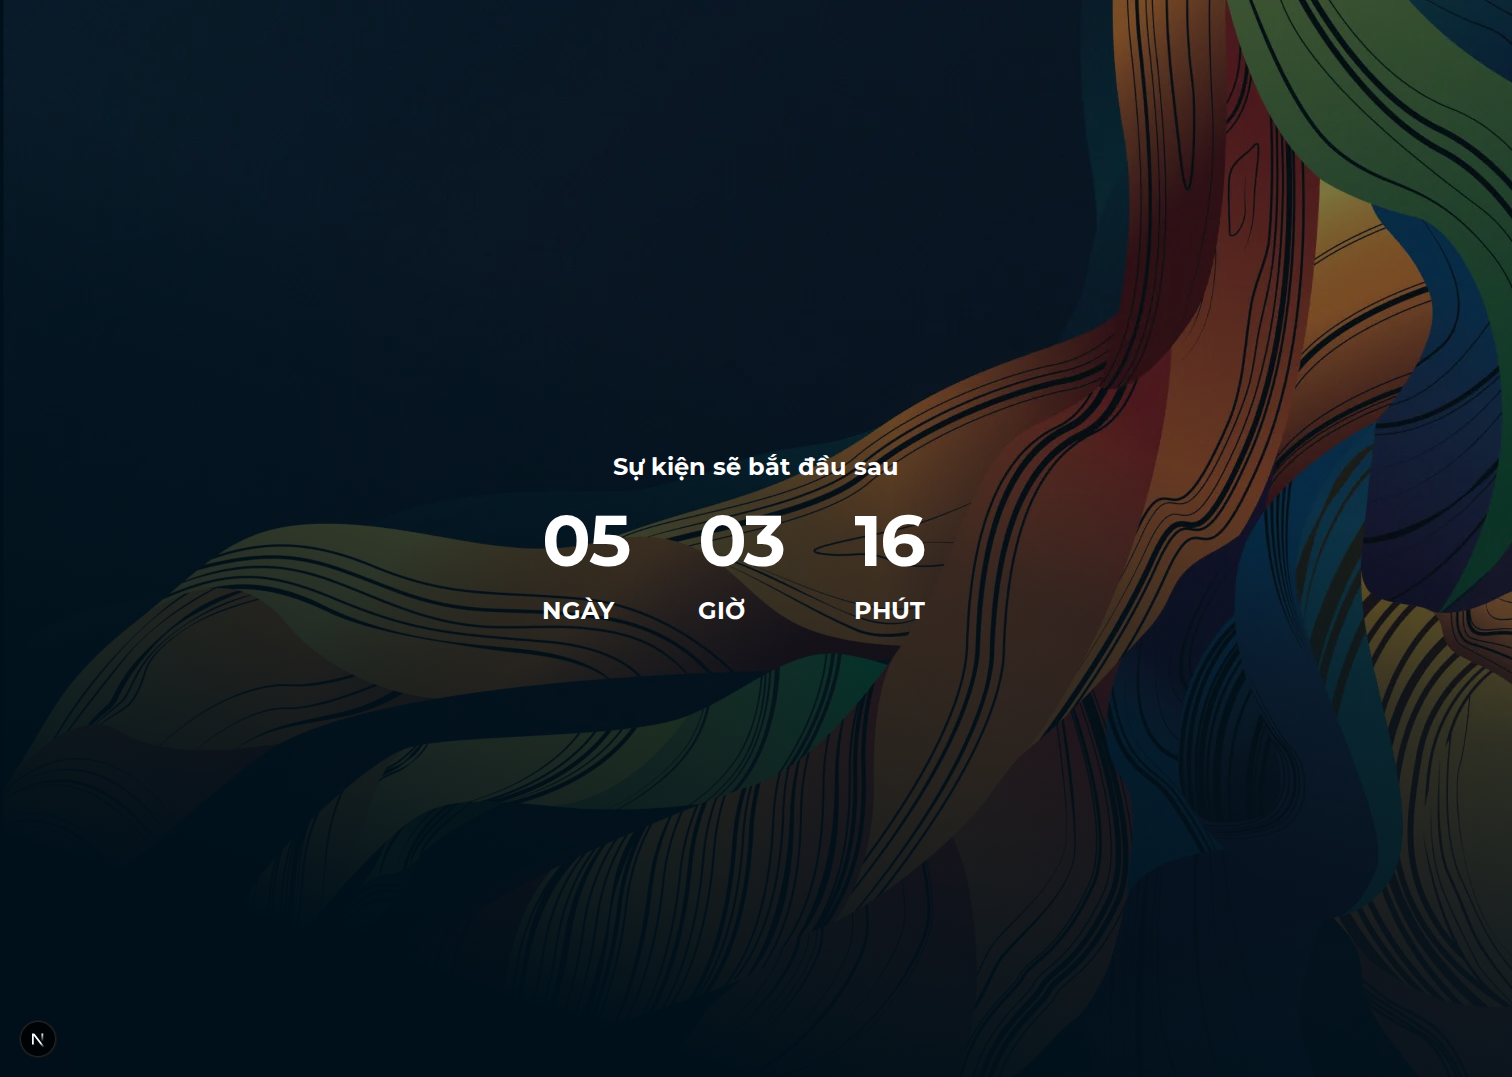
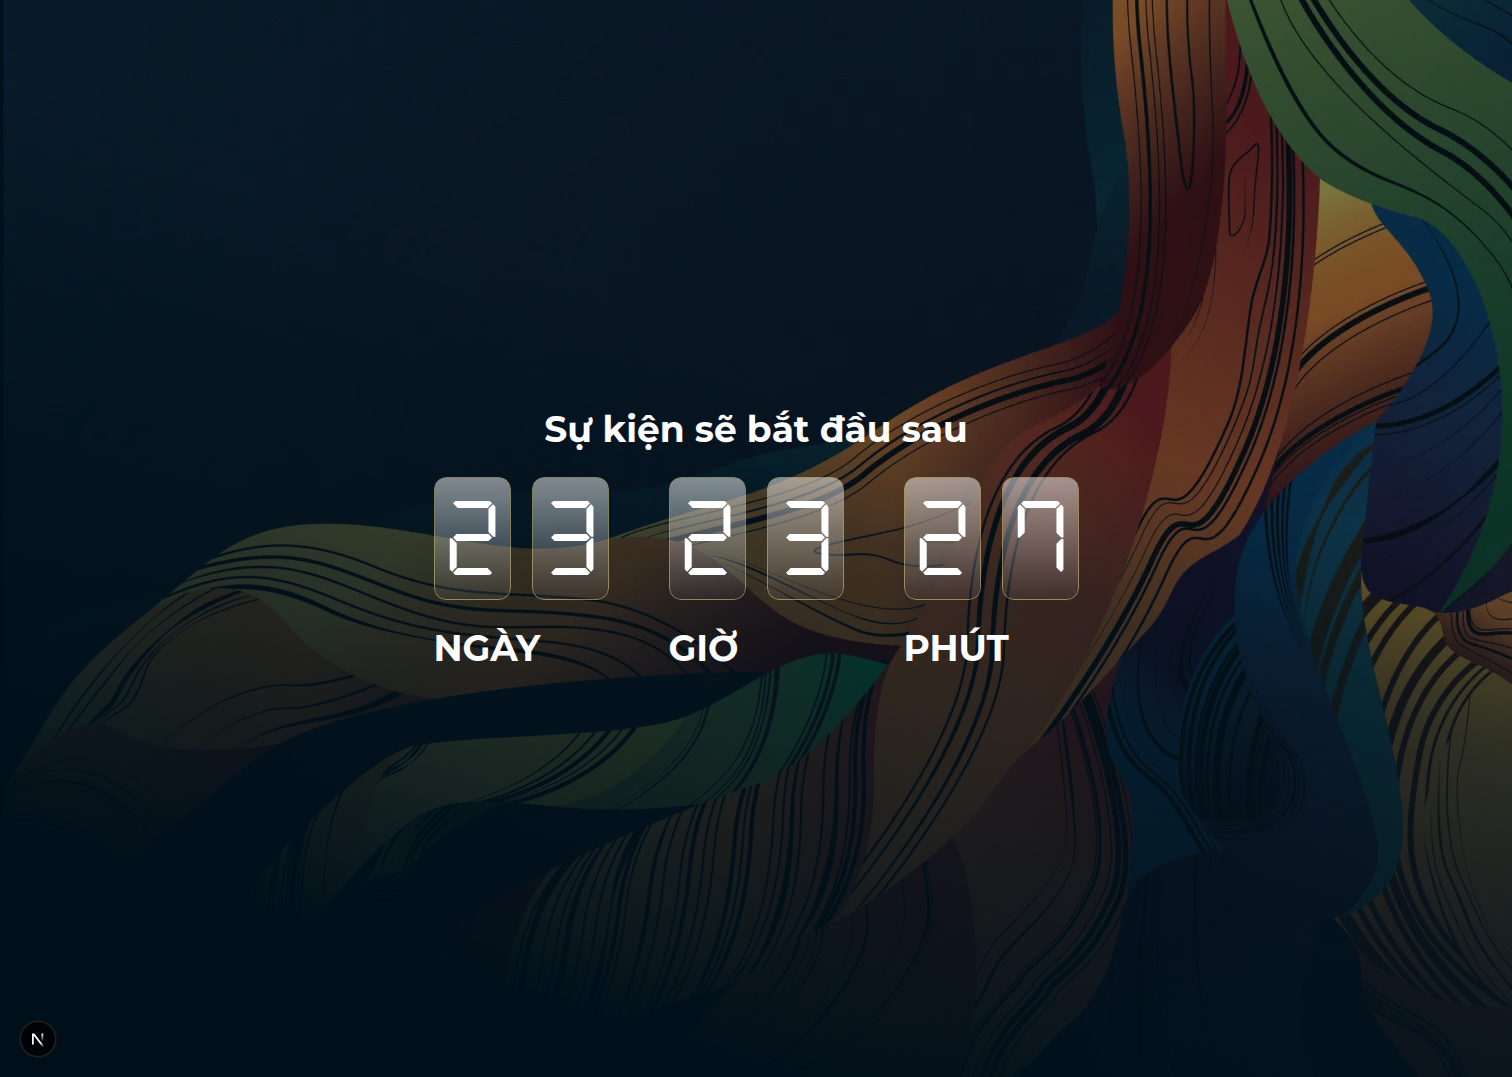
Fix countdown visual and update spec, plan, task

Changed region(s): [[0.2798, 0.3677, 0.7149, 0.6128]]

diff --git a/src/components/home/Countdown.tsx b/src/components/home/Countdown.tsx
@@ -35,16 +35,76 @@ function pad2(value: number): string {
   return value.toString().padStart(2, "0");
 }
 
+type Size = "md" | "lg";
+
+// LED tile + label sizing tokens. Mirrors `.saa-countdown-tile-{md,lg}` in
+// app/globals.css (Figma 8PJQswPZmU + i87tDx10uM B1.3); kept here only to
+// drive layout/typography pieces Tailwind needs as inline arbitrary values.
+const SIZE_TOKENS: Record<
+  Size,
+  {
+    tile: string; // class for digit tile
+    digitFontSize: string; // DSEG7 font-size (px) — matches Figma exactly
+    digitGap: string; // gap between the two digit tiles (px)
+    label: string; // label typography (Montserrat)
+    columnGap: string; // vertical gap between digit row and label
+    groupGap: string; // horizontal gap between Days/Hours/Minutes groups
+    digitWidthPx: number; // digit text box width (Figma)
+  }
+> = {
+  lg: {
+    tile: "saa-countdown-tile saa-countdown-tile-lg",
+    digitFontSize: "text-[73.728px] leading-[95px]",
+    digitGap: "gap-[21px]",
+    label: "font-display text-4xl font-bold leading-[48px]",
+    columnGap: "gap-6",
+    groupGap: "gap-[60px]",
+    digitWidthPx: 59,
+  },
+  md: {
+    tile: "saa-countdown-tile saa-countdown-tile-md",
+    digitFontSize: "text-[49.152px] leading-[63px]",
+    digitGap: "gap-[14px]",
+    label: "font-display text-2xl font-bold leading-8",
+    columnGap: "gap-[14px]",
+    groupGap: "gap-10",
+    digitWidthPx: 40,
+  },
+};
+
+function DigitTile({ char, size }: { char: string; size: Size }) {
+  const tokens = SIZE_TOKENS[size];
+  return (
+    <div className={tokens.tile}>
+      <span
+        aria-hidden="true"
+        style={{
+          fontFamily: "var(--font-led), monospace",
+          width: tokens.digitWidthPx,
+          textAlign: "center",
+        }}
+        className={`${tokens.digitFontSize} font-normal text-saa-countdown-digit-fg`}
+      >
+        {char}
+      </span>
+    </div>
+  );
+}
+
 export default function Countdown({
   eventStart,
   locale,
   subtitleAs = "p",
   subtitleKey = "home.hero.subtitle",
+  size = "md",
+  align = "start",
 }: {
   eventStart: Date | null;
   locale: SupportedLocale;
   subtitleAs?: "p" | "h1";
   subtitleKey?: string;
+  size?: Size;
+  align?: "start" | "center";
 }) {
   const [now, setNow] = useState<Date>(() => new Date());
 
@@ -66,6 +126,7 @@ export default function Countdown({
   const parts = computeParts(eventStart, now);
   const showSubtitle = !parts || !parts.isInPast;
 
+  const tokens = SIZE_TOKENS[size];
   const tiles: ReadonlyArray<{ label: string; value: string }> = [
     {
       label: t("home.hero.countdown.days", locale),
@@ -81,32 +142,41 @@ export default function Countdown({
     },
   ];
 
+  const alignmentClass = align === "center" ? "items-center" : "items-start";
+  const subtitleAlignClass = align === "center" ? "text-center" : "text-left";
+
   return (
-    <div className="flex flex-col gap-4">
+    <div className={`flex flex-col ${alignmentClass} ${tokens.columnGap}`}>
       {showSubtitle
         ? createElement(
             subtitleAs,
             {
-              className: "font-display text-2xl font-bold leading-8 text-saa-page-fg",
+              className: `${tokens.label} ${subtitleAlignClass} text-saa-page-fg`,
             },
             t(subtitleKey, locale),
           )
         : null}
-      <div className="flex flex-row items-center gap-10">
-        {tiles.map((tile) => (
-          <div
-            key={tile.label}
-            className="flex flex-col items-start justify-center gap-3.5"
-            style={{ width: 116, height: 128 }}
-          >
-            <div className="flex h-[82px] w-full items-center font-display text-[72px] font-bold leading-[82px] tracking-tight text-saa-page-fg">
-              {tile.value}
+      <div className={`flex flex-row items-center ${tokens.groupGap}`}>
+        {tiles.map((tile) => {
+          const [d1, d2] = [tile.value.charAt(0), tile.value.charAt(1)];
+          return (
+            <div
+              key={tile.label}
+              className={`flex flex-col items-start justify-center ${tokens.columnGap}`}
+            >
+              <div
+                className={`flex flex-row items-center ${tokens.digitGap}`}
+                aria-label={`${tile.value} ${tile.label}`}
+              >
+                <DigitTile char={d1} size={size} />
+                <DigitTile char={d2} size={size} />
+              </div>
+              <span className={`${tokens.label} text-saa-page-fg`}>
+                {tile.label}
+              </span>
             </div>
-            <span className="font-display text-2xl font-bold leading-8 text-saa-page-fg">
-              {tile.label}
-            </span>
-          </div>
-        ))}
+          );
+        })}
       </div>
     </div>
   );

diff --git a/app/globals.css b/app/globals.css
@@ -33,6 +33,13 @@
   --color-saa-footer-bg: #00070c;
   --color-saa-footer-fg: #ffffff;
   --color-saa-notification-dot: #d4271d;
+
+  /* SAA 2025 — Countdown LED tile tokens (sourced from Figma frames
+     8PJQswPZmU "Countdown - Prelaunch page" and i87tDx10uM "Homepage SAA"
+     B1.3). Each digit renders inside a glassmorphic tile with a thin golden
+     border; the digit itself is set in the DSEG7-Classic 7-segment font. */
+  --color-saa-countdown-tile-border: #ffea9e;
+  --color-saa-countdown-digit-fg: #ffffff;
 }
 
 @theme inline {
@@ -42,6 +49,7 @@
   --font-mono: var(--font-geist-mono);
   --font-display: var(--font-montserrat);
   --font-display-alt: var(--font-montserrat-alt);
+  --font-led: var(--font-dseg7);
 
   /* Tailwind v4 token registration: makes `bg-saa-page`, `text-saa-page-fg`,
      `bg-saa-header`, `bg-saa-button-primary`, `text-saa-button-primary-fg`
@@ -62,6 +70,58 @@
   --color-saa-footer-bg: var(--color-saa-footer-bg);
   --color-saa-footer-fg: var(--color-saa-footer-fg);
   --color-saa-notification-dot: var(--color-saa-notification-dot);
+  --color-saa-countdown-tile-border: var(--color-saa-countdown-tile-border);
+  --color-saa-countdown-digit-fg: var(--color-saa-countdown-digit-fg);
+}
+
+/* SAA 2025 — Countdown LED digit tile (Figma frames 8PJQswPZmU prelaunch +
+   i87tDx10uM homepage B1.3). Glassmorphic surface: white→white-10% gradient
+   at 0.5 opacity behind the digit, golden border, backdrop blur. Two size
+   variants — `lg` (prelaunch hero) and `md` (homepage) — set their own
+   border-width / radius / blur via CSS variables. */
+.saa-countdown-tile {
+  position: relative;
+  isolation: isolate;
+  display: flex;
+  align-items: center;
+  justify-content: center;
+  width: var(--saa-tile-w);
+  height: var(--saa-tile-h);
+  border-radius: var(--saa-tile-radius);
+  overflow: hidden;
+}
+
+.saa-countdown-tile::before {
+  content: "";
+  position: absolute;
+  inset: 0;
+  border-radius: inherit;
+  border: var(--saa-tile-border-w) solid var(--color-saa-countdown-tile-border);
+  background: linear-gradient(
+    180deg,
+    rgba(255, 255, 255, 1) 0%,
+    rgba(255, 255, 255, 0.1) 100%
+  );
+  opacity: 0.5;
+  backdrop-filter: blur(var(--saa-tile-blur));
+  -webkit-backdrop-filter: blur(var(--saa-tile-blur));
+  z-index: -1;
+}
+
+.saa-countdown-tile-lg {
+  --saa-tile-w: 77px;
+  --saa-tile-h: 123px;
+  --saa-tile-radius: 12px;
+  --saa-tile-border-w: 0.75px;
+  --saa-tile-blur: 24.96px;
+}
+
+.saa-countdown-tile-md {
+  --saa-tile-w: 51px;
+  --saa-tile-h: 82px;
+  --saa-tile-radius: 8px;
+  --saa-tile-border-w: 0.5px;
+  --saa-tile-blur: 16.64px;
 }
 
 body {

diff --git a/app/layout.tsx b/app/layout.tsx
@@ -1,5 +1,6 @@
 import type { Metadata } from "next";
 import { Geist, Geist_Mono, Montserrat, Montserrat_Alternates } from "next/font/google";
+import localFont from "next/font/local";
 
 import Toaster from "@/src/components/ui/Toaster";
 
@@ -27,6 +28,16 @@ const montserratAlternates = Montserrat_Alternates({
   weight: ["700"],
 });
 
+// DSEG7-Classic (OFL) — open-source 7-segment LED font used by the countdown
+// digit tiles (Figma "Digital Numbers" stand-in). Self-hosted under
+// `public/fonts/dseg7/` so we never depend on a CDN at request time.
+const dseg7 = localFont({
+  variable: "--font-dseg7",
+  src: "../public/fonts/dseg7/DSEG7Classic-Regular.woff2",
+  weight: "400",
+  display: "swap",
+});
+
 export const metadata: Metadata = {
   title: "Sun Annual Awards 2025",
   description: "Bắt đầu hành trình của bạn cùng SAA 2025.",
@@ -40,7 +51,7 @@ export default function RootLayout({
   return (
     <html
       lang="vi"
-      className={`${geistSans.variable} ${geistMono.variable} ${montserrat.variable} ${montserratAlternates.variable} h-full antialiased`}
+      className={`${geistSans.variable} ${geistMono.variable} ${montserrat.variable} ${montserratAlternates.variable} ${dseg7.variable} h-full antialiased`}
     >
       <body className="min-h-full flex flex-col">
         {children}

diff --git a/src/components/prelaunch/PrelaunchScreen.tsx b/src/components/prelaunch/PrelaunchScreen.tsx
@@ -31,6 +31,8 @@ export default function PrelaunchScreen({
           locale={locale}
           subtitleAs="h1"
           subtitleKey="prelaunch.heading"
+          size="lg"
+          align="center"
         />
         <PrelaunchAutoExit launchAt={launchAt} />
       </div>

diff --git a/.momorph/specs/8PJQswPZmU-countdown-prelaunch-page/tasks.md b/.momorph/specs/8PJQswPZmU-countdown-prelaunch-page/tasks.md
@@ -234,6 +234,23 @@ PR 4 — Phase 7 final (perf check, viewport smoke, full verification).
 
 ---
 
+## Phase 8 — Countdown LED redesign (post-launch visual update, 2026-05-09)
+
+**Goal**: Replace the original Montserrat-72px digit pair with the Figma "Digital Numbers" / 7-segment LED treatment. The same redesign also lands on Homepage SAA — the work is a single change to the shared `<Countdown>` component plus a `size`/`align` prop wiring.
+
+Functional contract (FR-001…FR-013, US1…US4) is **unchanged** — this phase is visual-only and inherits the Phase 14 work tracked in [.momorph/specs/i87tDx10uM-homepage-saa/tasks.md](../i87tDx10uM-homepage-saa/tasks.md). The two relevant prelaunch-side acceptance points:
+
+- The `<Countdown>` invocation in [src/components/prelaunch/PrelaunchScreen.tsx](../../../src/components/prelaunch/PrelaunchScreen.tsx) MUST pass `size="lg" align="center"` so the prelaunch tiles render at 77×123 (radius 12, border 0.75px, blur 24.96px) rather than the homepage default `size="md"` (51×82).
+- The `prelaunch.heading` i18n key continues to render as `<h1>` via `subtitleAs="h1"` (Q-CP5) — the redesign does NOT alter the heading element, only the digit row beneath it.
+
+- [x] T041 [P8] Wire `size="lg" align="center"` in PrelaunchScreen at the `<Countdown>` call site | src/components/prelaunch/PrelaunchScreen.tsx
+- [x] T042 [P8] Refresh `assets/frame.png` (latest Figma export from screenId `8PJQswPZmU`) and `assets/implementation.png` (Playwright capture via `channel: "chrome"`, `document.fonts.ready` gate) | .momorph/specs/8PJQswPZmU-countdown-prelaunch-page/assets/
+- [x] T043 [P8] Cross-reference Phase 14 in the Homepage SAA tasks file for the shared component / font / token work; no further changes scoped to this spec | (cross-link only)
+
+**Out of scope for Phase 8**: `LAUNCH_AT` parsing, redirect / gate behavior, the auto-exit client refresh, the PrelaunchAutoExit minute-tick mechanism, the `prelaunch.heading` copy, and any change to the Login regression suite.
+
+---
+
 ## Notes
 
 - Commit after each task or logical group; keep PRs scoped per the Incremental Delivery split.

diff --git a/.momorph/specs/i87tDx10uM-homepage-saa/tasks.md b/.momorph/specs/i87tDx10uM-homepage-saa/tasks.md
@@ -309,6 +309,22 @@
 
 ---
 
+## Phase 14 — Countdown LED redesign (post-launch visual update, 2026-05-09)
+
+**Goal**: Bring the `B1.3` countdown tiles in line with the Figma "Digital Numbers" / LED design that appears on both Homepage SAA (`i87tDx10uM`) and the Prelaunch page (`8PJQswPZmU`). Functional contract (per-minute tick, zero-padding, zero-state hiding the subtitle, visibilitychange recovery) is **unchanged** — this phase is visual only.
+
+**Scope**: each two-digit unit (`Days`/`Hours`/`Minutes`) renders as **two independent glassmorphic tiles**, one per digit, with the digit rendered in a 7-segment LED font. The same component services both screens via a `size` prop (`"md"` for homepage, `"lg"` for prelaunch).
+
+- [x] T074 [P14] Self-host **DSEG7-Classic** (OFL) under [public/fonts/dseg7/](../../../public/fonts/dseg7/) (`DSEG7Classic-Regular.woff2` + `LICENSE.txt`); register it via `next/font/local` in [app/layout.tsx](../../../app/layout.tsx) as the `--font-dseg7` CSS variable. Why DSEG7: Figma's "Digital Numbers" font is non-Google-hosted and not OFL; DSEG7-Classic is the closest open-source 7-segment family.
+- [x] T075 [P14] Add LED tile design tokens to [app/globals.css](../../../app/globals.css): `--color-saa-countdown-tile-border` (`#FFEA9E`), `--color-saa-countdown-digit-fg` (`#FFFFFF`), `--font-led` (mapped to `--font-dseg7`), plus the `.saa-countdown-tile`, `.saa-countdown-tile-md` (51×82, radius 8, border 0.5px, blur 16.64px), and `.saa-countdown-tile-lg` (77×123, radius 12, border 0.75px, blur 24.96px) classes. Each tile uses a `::before` pseudo-element so the white→white-10% gradient + golden border + backdrop-filter render at `opacity: 0.5` without dimming the digit on top.
+- [x] T076 [P14] Refactor [src/components/home/Countdown.tsx](../../../src/components/home/Countdown.tsx): split each two-digit value into a row of two `DigitTile` instances; add `size?: "md" | "lg"` (default `"md"`) and `align?: "start" | "center"` (default `"start"`) props. Default rendering for Homepage SAA (`<Hero />`) is unchanged. Existing unit tests in [tests/unit/components/home/Countdown.test.tsx](../../../tests/unit/components/home/Countdown.test.tsx) keep passing because `tilesFromDom()` reads `previousElementSibling.textContent`, which still concatenates the two digits to the original two-character string.
+- [x] T077 [P14] Wire `size="lg" align="center"` at the prelaunch call site in [src/components/prelaunch/PrelaunchScreen.tsx](../../../src/components/prelaunch/PrelaunchScreen.tsx). Homepage `<Hero />` keeps the default `size="md"` — no edit there.
+- [x] T078 [P14] Refresh design + implementation reference images: [.momorph/specs/i87tDx10uM-homepage-saa/assets/frame.png](assets/frame.png) + `assets/implementation-viewport.png`, and [.momorph/specs/8PJQswPZmU-countdown-prelaunch-page/assets/frame.png](../8PJQswPZmU-countdown-prelaunch-page/assets/frame.png) + `assets/implementation.png`. Visual verification via Playwright `channel: "chrome"` on real Google Chrome (DSEG7 font load gated on `document.fonts.ready`).
+
+**Out of scope for Phase 14**: any change to the per-minute tick, FR-007/FR-008 contracts, the `eventStart` prop signature, the `subtitleAs`/`subtitleKey` props, the `home.hero.countdown.{days,hours,minutes}` i18n keys, or the existing aria-decorative behavior (Q7).
+
+---
+
 ## Notes
 
 - Commit after each logical group: e.g. one commit for Phase 1 (asset prep), one for Phase 2 (foundation), one per user story phase.

diff --git a/.momorph/specs/8PJQswPZmU-countdown-prelaunch-page/spec.md b/.momorph/specs/8PJQswPZmU-countdown-prelaunch-page/spec.md
@@ -158,9 +158,9 @@ The prelaunch page is **deliberately inert**: no header, no footer, no nav, no l
 | Dark cover overlay | `2268:35130` | Dark overlay on top of the BG image to keep the countdown legible. | None. |
 | Centered content container | `2268:35131` (`Bìa`) | Centered flex column wrapping heading + countdown row. | None. |
 | Heading text | `2268:35137` | Localized text from i18n key `prelaunch.heading` (e.g. vi-VN: "Sự kiện sẽ bắt đầu sau" / en-US: "Coming soon"). Renders as `<h1>` via `Countdown`'s new `subtitleAs="h1"` prop (Q-CP5 resolved). | None — non-interactive. |
-| Days unit | `2268:35139` (`1_Days`) | Two-digit zero-padded display + `DAYS` label. Range `00`+. Shows `00` if `< 1` day remains. | None — display only. Auto-updates per the `Countdown` minute tick. |
-| Hours unit | `2268:35144` (`2_Hours`) | Two-digit zero-padded display + `HOURS` label. Range `00`–`23`. Out-of-range upstream values normalize to `00` (existing `Countdown` arithmetic guarantees this by construction). | None — display only. |
-| Minutes unit | `2268:35149` (`3_Minutes`) | Two-digit zero-padded display + `MINUTES` label. Range `00`–`59`. Out-of-range upstream values normalize to `00` (same guarantee). | None — display only. |
+| Days unit | `2268:35139` (`1_Days`) | Two-digit zero-padded display + `DAYS` label. **Each digit renders inside its own glassmorphic LED tile** (Figma "Digital Numbers" / 7-segment display, `lg` size: 77×123 per tile, golden border `#FFEA9E`, white→white-10% gradient under `backdrop-filter: blur(24.96px)`) — see Phase 8 visual redesign in `tasks.md`. Range `00`+. Shows `00 00` if `< 1` day remains. | None — display only. Auto-updates per the `Countdown` minute tick. |
+| Hours unit | `2268:35144` (`2_Hours`) | Two-digit zero-padded display + `HOURS` label. Same two-LED-tile structure as `1_Days`. Range `00`–`23`. Out-of-range upstream values normalize to `00` (existing `Countdown` arithmetic guarantees this by construction). | None — display only. |
+| Minutes unit | `2268:35149` (`3_Minutes`) | Two-digit zero-padded display + `MINUTES` label. Same two-LED-tile structure as `1_Days`. Range `00`–`59`. Out-of-range upstream values normalize to `00` (same guarantee). | None — display only. |
 
 > Visual / pixel / color / font / spacing / asset-filename details are deliberately out of scope here. They live in Figma (fetched by the implementer via `query_section`, `get_node`, `list_media_nodes`) and inherit the existing `Countdown` component's already-shipped styling. See [.momorph/SCREENFLOW.md](../../SCREENFLOW.md) "Screen Details — Countdown - Prelaunch page" for the structural map.
 

diff --git a/.momorph/specs/i87tDx10uM-homepage-saa/spec.md b/.momorph/specs/i87tDx10uM-homepage-saa/spec.md
@@ -251,9 +251,9 @@ The user scrolls past the hero and reads the three-paragraph theme essay (`B4`) 
 | `B1` Countdown section          | `2167:9035`                            | Wraps `B1.2` subtitle and `B1.3` tile group.                                                                      | Auto-updates per minute against `SAA_EVENT_START_AT`. Hides "Coming soon" once the target is reached.                     |
 | `B1.2` "Coming soon" subtitle   | `2167:9036`                            | Label only.                                                                                                       | Hidden when `now >= eventStart`.                                                                                          |
 | `B1.3` Countdown tile group     | `2167:9037`                            | Wraps the three tiles below.                                                                                      | Container; per-tile behavior delegated.                                                                                   |
-| `B1.3.1` Days tile              | `2167:9038`                            | 2-digit zero-padded numeric tile + `DAYS` label.                                                                  | Auto-updates per minute. Renders `00` once event start is in the past.                                                    |
-| `B1.3.2` Hours tile             | `2167:9043`                            | 2-digit zero-padded + `HOURS` label.                                                                              | Same behavior as `B1.3.1`.                                                                                                |
-| `B1.3.3` Minutes tile           | `2167:9048`                            | 2-digit zero-padded + `MINUTES` label.                                                                            | Same behavior as `B1.3.1`.                                                                                                |
+| `B1.3.1` Days tile              | `2167:9038`                            | 2-digit zero-padded numeric tile + `DAYS` label. **Each digit renders inside its own glassmorphic LED tile** (Figma "Digital Numbers" / 7-segment display, two tiles per unit) — see Phase 14 visual redesign in `tasks.md`. | Auto-updates per minute. Renders `00 00` once event start is in the past.                                                |
+| `B1.3.2` Hours tile             | `2167:9043`                            | 2-digit zero-padded + `HOURS` label. Same two-LED-tile structure as `B1.3.1`.                                     | Same behavior as `B1.3.1`.                                                                                                |
+| `B1.3.3` Minutes tile           | `2167:9048`                            | 2-digit zero-padded + `MINUTES` label. Same two-LED-tile structure as `B1.3.1`.                                   | Same behavior as `B1.3.1`.                                                                                                |
 | `B2` Event info block           | `2167:9053`                            | Static `Thời gian` / `Địa điểm` / Facebook live note.                                                             | Static. Copy comes from i18n catalog.                                                                                     |
 | `B3.1` "ABOUT AWARDS" CTA       | `2167:9063`                            | Primary CTA button.                                                                                               | Click → navigate to `/awards`. Hover → state change per Figma.                                                            |
 | `B3.2` "ABOUT KUDOS" CTA        | `2167:9064`                            | Secondary CTA button.                                                                                             | Click → navigate to `/sun-kudos`. Hover → state change per Figma.                                                         |

diff --git a/.momorph/specs/8PJQswPZmU-countdown-prelaunch-page/plan.md b/.momorph/specs/8PJQswPZmU-countdown-prelaunch-page/plan.md
@@ -108,7 +108,7 @@ Every FR / TR / US in spec.md is mapped below. A developer reading only this pla
 ### Integration Points
 
 - **Existing Services**:
-  - [`Countdown`](../../../src/components/home/Countdown.tsx) — **EXTENDED** with optional `subtitleAs?: "p" | "h1"` (default `"p"`) and optional `subtitleKey?: string` (default `"home.hero.subtitle"`) so the prelaunch route can opt into `<h1>` + `prelaunch.heading` without touching Homepage's render tree. Surgical change; one new Vitest case covers each branch.
+  - [`Countdown`](../../../src/components/home/Countdown.tsx) — **EXTENDED** with optional `subtitleAs?: "p" | "h1"` (default `"p"`) and optional `subtitleKey?: string` (default `"home.hero.subtitle"`) so the prelaunch route can opt into `<h1>` + `prelaunch.heading` without touching Homepage's render tree. Surgical change; one new Vitest case covers each branch. **Phase 8 visual redesign (2026-05-09)** further extends the component with `size?: "md" \| "lg"` (default `"md"`) + `align?: "start" \| "center"` (default `"start"`); the prelaunch call site passes `size="lg" align="center"` so each digit renders inside its own 77×123 glassmorphic LED tile (DSEG7-Classic font, golden border, white→white-10% gradient under `backdrop-filter: blur(24.96px)`). Functional contract is unchanged — see Phase 14 in [.momorph/specs/i87tDx10uM-homepage-saa/tasks.md](../i87tDx10uM-homepage-saa/tasks.md) for the shared component / font / token work.
   - [`getSaaLocale`](../../../src/lib/cookies/saa-locale.ts) — **REUSED** as-is.
   - [`t` / catalogs](../../../src/lib/i18n/index.ts) — **EXTENDED** with `prelaunch.heading` in BOTH `vi-VN` and `en-US`. The catalog parity test enforces lockstep.
   - [`config`](../../../src/lib/config.ts) — **EXTENDED** with `SAA_LAUNCH_AT`.

diff --git a/.momorph/specs/i87tDx10uM-homepage-saa/plan.md b/.momorph/specs/i87tDx10uM-homepage-saa/plan.md
@@ -116,7 +116,7 @@ The Homepage itself is read-only: no `POST` / `PATCH` / `DELETE` from this scree
 | ---------------------------------------------------------------------- | --------------------------------------------------------------------------------- |
 | `src/lib/awards/awards.ts`                                             | Static array of six awards with `{ id, slug, titleKey, descriptionKey, thumbnailAsset }`. Single source of truth for the awards grid + cross-spec deep links. |
 | `src/lib/awards/awards.test.ts`                                        | Unit tests: slug uniqueness, titleKey/descriptionKey present in both catalogs, deterministic ordering.                                                        |
-| `src/components/home/Countdown.tsx`                                    | Client island. Per-minute tick + `visibilitychange` recompute. Renders three tiles with 2-digit padding.                                                      |
+| `src/components/home/Countdown.tsx`                                    | Client island. Per-minute tick + `visibilitychange` recompute. Renders three units; **each two-digit value is split into a row of two glassmorphic LED tiles** (DSEG7-Classic font via `next/font/local`, golden border, white→white-10% gradient under `backdrop-filter: blur`). `size?: "md" \| "lg"` switches between Homepage (51×82) and Prelaunch (77×123) tile dimensions; see Phase 14 in `tasks.md`. |
 | `src/components/home/Hero.tsx`                                         | Server. Wraps "ROOT FURTHER" title + "Coming soon" subtitle + Countdown.                                                                                      |
 | `src/components/home/EventInfo.tsx`                                    | Server. Static `Thời gian / Địa điểm / Facebook live` block from i18n.                                                                                       |
 | `src/components/home/CTAButtons.tsx`                                   | Server. Two anchor buttons → `/awards` / `/sun-kudos`.                                                                                                        |